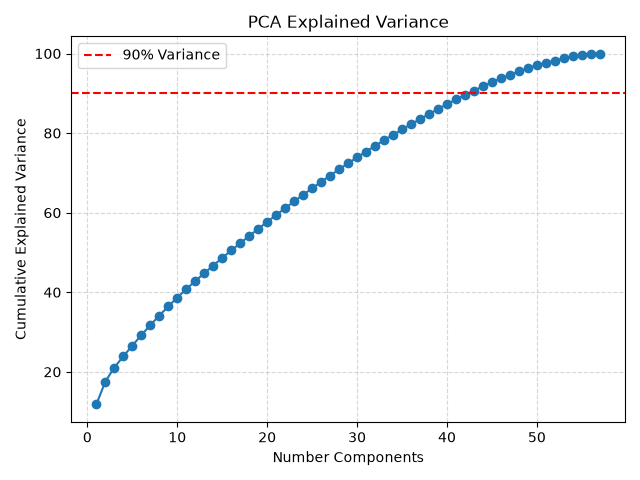
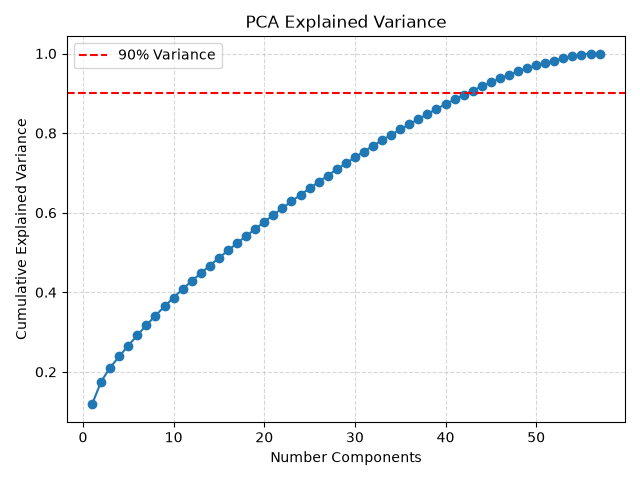
Make changes per feedback

diff --git a/assignments_03/project_03.py b/assignments_03/project_03.py
@@ -148,7 +148,11 @@ print(f"Test set size: {X_test.shape[0]} samples")
 # Without scaling, the model will be biased towards features with much larger numeric ranges.
 # These features would dominate the main components. Therefore, the data are standardized before PCA.
 
-# PCA preprocessing
+# PCA preprocessing:
+# Scale the data first because PCA is affected by feature magnitude.
+# The scaler is fitted only on X_train to prevent data leakage.
+# PCA is also fitted only on the training data.
+
 
 scaler = StandardScaler()
 
@@ -160,20 +164,24 @@ pca = PCA()
 
 pca.fit(X_train_scaled)
 
-cumula_explained = np.cumsum(pca.explained_variance_ratio_ * 100)
+# Plot cumulative explained variance to determine the number of components
+# needed to explain 90% of the variance.
+
+
+cumula_explained = np.cumsum(pca.explained_variance_ratio_)
 plt.plot(range(1, len(cumula_explained) + 1), cumula_explained, marker='o')
 plt.xlabel("Number Components")
 plt.ylabel("Cumulative Explained Variance")
 plt.title("PCA Explained Variance")
 plt.grid(True, linestyle='--', alpha=0.5)
-plt.axhline(y=90, color='red', linestyle='--', label='90% Variance')
+plt.axhline(y=0.9, color='red', linestyle='--', label='90% Variance')
 plt.legend()
 plt.tight_layout()
 plt.savefig("outputs/cumulative_explained_variance.png")
 plt.show()
 plt.close()
 
-n = np.argmax(cumula_explained >= 90) + 1
+n = np.argmax(cumula_explained >= 0.9) + 1
 print("Number of components that reach 90% variance:", n)
 
 X_train_pca = pca.transform(X_train_scaled)[:, :n]
@@ -233,15 +241,11 @@ for depth in max_depths:
     print(f"  Training: {accuracy_train:.4f}")
     print(f"  Test: {accuracy_test:.4f}")
 
-# As the maximum depth increases, training accuracy consistently increases and test accuracy
-# also increases but more slowly. This indicates that as the tree grows deeper, it can
-# capture more patterns in the data, improving performance on both the training and test sets.
-# However, the gap between the training and test accuracy also grows larger, suggesting that
-# deeper trees are beginning to overfit the training data.
-
-# I would choose a maximum depth of 10 to use in production because this depth provides a good
-# balance between model complexity and performance. A smaller depth may underfit the data by
-# not capturing enough patterns, while larger depths increase the risk of overfitting.
+# As the tree depth increases, the training accuracy improves.
+# The test accuracy also improves at first, but deeper trees begin to overfit
+# because the gap between training and test accuracy becomes larger.
+# I would choose a max_depth of 10 because it gives a good balance between
+# accuracy and overfitting.
 
 best_depth = 10
 best_tree = DecisionTreeClassifier(max_depth=best_depth, random_state=42)
@@ -292,14 +296,16 @@ print(classification_report(y_test, predict_log_pca))
 # Decision Tree: 0.9088
 # KNN (scaled): 0.9077
 
-# The Random Forest model performs the best with accuracy 0.9457. 
-# The Logistic Regression model is the second best to perform with high accuracy above 0.929. 
-# The Logistic Regression model trained on the scaled features performed slightly better than the model trained on the PCA-reduced features. Although PCA reduced 
-# the dimensionality of the data, it also removed some information that was useful for classification. In this case, 
-# scaling alone provided the best performance. PCA vs. non-PCA, PCA worked better. Yes, it does that match the hypothesis from Task 2 because
-# after scaling, it improves the performance of the model. 
-# The Decision Tree with max_depth 10 and max_depth None have high accuracy on training data but lower accuracy on 
-# test data, indicating overfitting.
+# The Random Forest model performs the best with an accuracy of 0.9457.
+# Logistic Regression is the second-best model with an accuracy of 0.9294.
+# Logistic Regression trained on the scaled features performed slightly better than
+# Logistic Regression trained on the PCA-reduced features.
+# PCA reduced the number of features, but it slightly lowered the model's accuracy.
+# Using only scaled data gave the best performance.
+# This matches the expectation from Task 2 that scaling is important for
+# Logistic Regression, while PCA was not beneficial for this dataset.
+# The Decision Tree with max_depth=10 and max_depth=None achieved very high
+# training accuracy but lower test accuracy, indicating overfitting.
 
 # For spam filter, I would prefer minimizing false negatives because phishing and malware 
 # emails can pose serious security risks. Allowing spam into the inbox could expose users to scams, 
@@ -348,11 +354,17 @@ feature_importance_rt = pd.DataFrame({
 feature_importance_rt = feature_importance_rt.sort_values(by="Importance", ascending=False)
 print(feature_importance_rt.head(10))
 
-plt.bar(feature_importance_rt['Feature'].head(10), feature_importance_rt['Importance'].head(10), color=['green', 'orange', 'blue', 'red'])
-plt.title("Top 10 Feature Importances from Random Forest")
+# Plot top 10 Random Forest feature importances
+top10_rf = feature_importance_rt.head(10)
+
+plt.figure(figsize=(10, 5))
+plt.bar(top10_rf["Feature"], top10_rf["Importance"], color="steelblue")
+
+plt.title("Top 10 Random Forest Feature Importances")
 plt.xlabel("Features")
 plt.ylabel("Importance")
-plt.xticks(rotation=45, ha='right')
+plt.xticks(rotation=45, ha="right")
+
 plt.tight_layout()
 plt.savefig("outputs/feature_importances.png")
 plt.show()
@@ -418,12 +430,16 @@ print(f"Logistic Regression (PCA) Scores: {log_reg_pca_scores}")
 print(f"Mean: {log_reg_pca_scores.mean():.3f}")
 print(f"Std:  {log_reg_pca_scores.std():.3f}")
 
-# Random Forest is the most accurate model. It has the highest mean accuracy (0.954) and modest standard deviation (0.013).
-# The most stable model is the Logistic Regression (PCA). It has the lowest standard deviation of 0.003, indicating the 
-# lowest variance across folds. Yes, the ranking match the accuracy ranking from Task 3. The Random Forest model is the most 
-# accurate.
+# Random Forest has the highest mean accuracy (0.954), making it the most accurate model.
+# Logistic Regression (PCA) has the lowest standard deviation (0.003), making it the most stable model across folds.
+# The accuracy ranking matches the results from the single train/test split, with Random Forest performing the best overall.
+
+
 
 #Task 5
+
+# Random Forest does not require feature scaling or PCA because tree-based
+# models split on feature values rather than distances.
 
 print("------------Pipelines------------")
 #Best tree-based classifier pipeline
@@ -436,6 +452,11 @@ predict_rf_p = rf_pipeline.predict(X_test)
 
 print(f"Accuracy score for the best tree-based classifier: {accuracy_score(y_test, predict_rf_p):.4f}")
 print(classification_report(y_test, predict_rf_p))
+
+
+# Logistic Regression benefits from feature scaling.
+# PCA was compared in Task 3, but it reduced Logistic Regression accuracy.
+# Therefore, PCA is not included in this pipeline because scaled features performed better.
 
 #Best non-tree classifier pipeline
 log_pipeline = Pipeline([
@@ -450,10 +471,10 @@ print(f"Accuracy score for best non-tree classifier (Logistic Regression): {accu
 print(classification_report(y_test, predict_log_p))
 
 
-# PCA did not improve the performance of the non-tree model, so it was not included in the Logistic Regression pipeline.
-# PCA is not used in the Random Forest pipeline because tree-based models are not sensitive to feature scaling so PCA is unnecessary.
+# PCA did not improve the performance of Logistic Regression, so it was not included in the pipeline.
+# Random Forest does not require feature scaling or PCA because tree-based models split data using feature thresholds rather than distances.
 # The pipeline results matched the earlier manual implementation, producing the same accuracy and classification report.
-# The two pipelines have different structures because Random Forest is a tree-based model that does not require feature
-# scaling, while Logistic Regression performs better when the features are scaled and standardized.
+# The two pipelines have different structures because Random Forest does not require preprocessing,
+# while Logistic Regression benefits from standardized features.
 # Using pipelines combines preprocessing and model training into a single workflow, making the code more organized,
-# reproducible, and easier to maintain, share with others, and deploy.
+# reproducible, and easier to maintain and deploy.

diff --git a/assignments_03/warmup_03.py b/assignments_03/warmup_03.py
@@ -146,8 +146,9 @@ for c in values:
         )
     )
     log_reg.fit(X_train_scaled, y_train)
-    print("Total size with C(0.01, 1.0, 100):")
-    print(np.abs(np.vstack([est.coef_ for est in log_reg.estimators_])).sum())
+
+    coef_sum = np.abs(np.vstack([est.coef_ for est in log_reg.estimators_])).sum()
+    print(f"C={c}: total coefficient magnitude = {coef_sum:.3f}")
 
 
 # --- PCA ---
@@ -170,14 +171,16 @@ for i, label in enumerate(y_digits):
     if label not in first_indices:
         first_indices[label] = i
 
+# One-row subplot showing one example of each digit (0–9).
 for digit in range(10):
     index = first_indices[digit]
     axes[digit].imshow(images[index], cmap='gray_r')
-    axes[digit].set_title(str(digit))
+    axes[digit].set_title(f"Digit: {digit}")
     axes[digit].axis('off')
 
 plt.savefig("outputs/sample_digits.png")
 plt.show()
+plt.close()
 
 # Q2
 pca = PCA()
@@ -191,9 +194,9 @@ plt.ylabel('Component 2')
 plt.title('PCA 2D Projection of Digits Dataset')
 plt.savefig("outputs/pca_2d_projection.png")
 plt.show()
+plt.close()
 
-# Images of the same digit tend to cluster together in this 2D PCA projection,
-# although some clusters overlap more in the middle.
+# Yes, images of the same digit generally cluster together, although some overlap occurs.
 
 # Q3
 
@@ -208,6 +211,8 @@ plt.axhline(y=0.8, color='red', linestyle='--', label='80% Variance')
 plt.legend()
 plt.savefig("outputs/pca_variance_explained.png")
 plt.show()
+plt.close()
+
 
 # Approximately 13 components are needed to explain 80% of the variance in the digits dataset, 
 # as indicated by the point where the cumulative explained variance curve crosses the 0.8 line.
@@ -237,16 +242,16 @@ for row, n in enumerate(components, start=1):
         axes[row, col].imshow(reconstructed, cmap='gray')
         axes[row, col].axis("off")
 
+row_labels = ["Original", "2 PCs", "5 PCs", "15 PCs", "40 PCs"]
 
-fig.text(0.03, 0.88, "Original", rotation=90, va='center')
-fig.text(0.03, 0.70, "2 PCs", rotation=90, va='center')
-fig.text(0.03, 0.52, "5 PCs", rotation=90, va='center')
-fig.text(0.03, 0.34, "15 PCs", rotation=90, va='center')
-fig.text(0.03, 0.16, "40 PCs", rotation=90, va='center')
+for row, label in enumerate(row_labels):
+    axes[row, 0].set_ylabel(label, rotation=90, size=12)
 
 plt.tight_layout(rect=[0.08, 0, 1, 1])
 plt.savefig("outputs/pca_reconstructions.png")
 plt.show()
+plt.close()
+
 
 # Reconstructions improve as more components are added.
 # With 2 PCs, images are blurry, but around 15 PCs the digits become somewhat recognizable.
